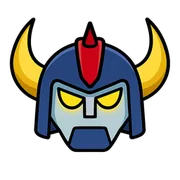
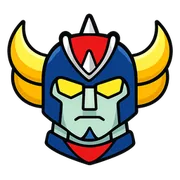
Lightly stylized Taekwon V and Grendizer; bring back tile bobbing via the game loop (no per-tile CSS animation)
Claude-Session: https://claude.ai/code/session_019QwctBLnb4UTXMJBnbargq

diff --git a/index.html b/index.html
@@ -2044,6 +2044,13 @@ function drawTiles() {
     e.style.opacity = t.alpha;
     e.style.filter = t.flash > 0 ? `brightness(${1 + t.flash * 1.5})` : '';
     e.style.zIndex = t.scale > 1.01 ? 3 : 1;
+    // 까딱까딱: 그림만 좌우로 기울며 들썩 (CSS 애니메이션 대신 여기서 같이 움직여서 아이폰 부담이 없게, 1초 박자)
+    if (e._art === undefined) e._art = e.querySelector('.ic .art');
+    if (e._art) {
+      const ph = now / 1000 + t.phase / (Math.PI * 2);
+      const a = Math.PI * 2 * ph;
+      e._art.style.transform = `translateY(${(-18 * Math.abs(Math.sin(a))).toFixed(1)}%) rotate(${(-14 * Math.cos(a)).toFixed(1)}deg)`;
+    }
   });
 }
 function renderBoard() {
@@ -2082,7 +2089,7 @@ const faceHTML = (e, who = 'suit') => FACE_ART[who][e] || FACE_ART.suit[e] || e;
 // 같은 그림이 여러 개 있어도 박자가 겹치지 않게 시작점을 흩뜨림
 // 그림을 다시 그려도 폰에 남은 옛 그림이 보이지 않게 주소에 버전을 붙임
 // 파일마다 내용이 바뀔 때만 새로 받도록 파일 해시를 붙임 (빌드할 때 채움)
-const ART_HASH = {"tile-gundam-a.png": "41a00219", "ind-school-a.png": "1b0fc977", "robot-cobot-cook-b.png": "3f739fa6", "tile-tool-a.png": "f174149f", "tile-made-a.png": "d557ba97", "ind-training-b.png": "0efc1d0b", "robot-qarm-a.png": "901f7afc", "tile-legs-b.png": "c0299b41", "tile-union-b.png": "b3a03a42", "tile-mgodz-b.png": "64821f9c", "robot-indus-b.png": "4a7cabef", "face-cook-frown.png": "e01a4907", "face-cook-neutral.png": "71441525", "ind-battery-b.png": "6e2bd18d", "ind-fire-a.png": "a71484d3", "face-trump-neutral.png": "5aecac90", "tile-legs-a.png": "2faadad6", "face-worker-angry.png": "eb6b88ed", "ind-steel-a.png": "0f070238", "face-suitf-delight.png": "d729900f", "tile-iarm-a.png": "fc127d92", "ind-steel-b.png": "e122612f", "ind-defense-b.png": "5aa959f1", "face-cook-angry.png": "50c65318", "ind-port-b.png": "6f5dc395", "tile-tf-a.png": "d2bc0939", "ind-factory-a.png": "909659fd", "tile-grendizer-b.png": "684e6275", "tile-term-b.png": "fa8e5b3f", "face-neutral.png": "a9a959b5", "tile-wheel-a.png": "9e98ebac", "face-cook-smile.png": "be9219e0", "robot-indus-a.png": "ba4c70bc", "tile-korea-b.png": "ebe1008b", "face-trump-tear.png": "21d22245", "tile-auto-b.png": "bb58686e", "ind-material-b.png": "a8f27197", "tile-korea-a.png": "d1987f19", "tile-union-a.png": "d48507d4", "ind-auto-a.png": "9a8abf4f", "tile-taekwonv-b.png": "b93a470a", "face-frown.png": "26865767", "robot-centaur-a.png": "a9e1e03b", "tile-auto-a.png": "e7100d25", "robot-cobot-cook-a.png": "2acb022c", "face-worker-tear.png": "940dcfc3", "ind-autoparts-b.png": "a5dbd76a", "face-suitf-angry.png": "5b24ceb5", "tile-iarm-b.png": "f0647318", "face-suitf-tear.png": "d0923069", "robot-centaur-b.png": "848f1932", "robot-mm-a.png": "e5da97cf", "ind-defense-a.png": "23a0651c", "robot-quad-a.png": "1e1384cf", "ind-autoparts-a.png": "26dcf7ce", "tile-eva-b.png": "b64d5546", "face-cook-tear.png": "d529800c", "tile-gundam-b.png": "69722c17", "face-trump-delight.png": "e41c1f7d", "face-angry.png": "8542c3c5", "tile-floor-b.png": "7bfb4d09", "face-suitf-smile.png": "2bfa949d", "ind-material-a.png": "2c67685e", "tile-mazinger-a.png": "2400cdc5", "tile-term-a.png": "f86a988f", "tile-eva-a.png": "48055f29", "tile-hum-a.png": "cdc85433", "ind-port-a.png": "0e5340b9", "ind-police-a.png": "717025fa", "wheel-tilt-ref.png": "4a1e31a2", "robot-cobot-a.png": "bb066d5e", "tile-mazinger-b.png": "dd429822", "face-trump-angry.png": "6fc0cf6d", "tile-wheel-b.png": "df5d2104", "indus-ref.png": "2bfe4680", "face-worker-neutral.png": "f4f1ff96", "robot-amr-a.png": "21455470", "face-delight.png": "4b63238d", "face-trump-frown.png": "4102f723", "robot-mm-b.png": "41cc89c7", "ind-fire-b.png": "c530534e", "ind-police-b.png": "750b1169", "ind-ess-b.png": "c7fac005", "ind-training-a.png": "a9fe00e5", "tile-mgodz-a.png": "36243d52", "tile-tf-b.png": "23f3efda", "ind-aircraft-a.png": "53a6b218", "ind-school-b.png": "a14af652", "tile-arm-b.png": "6cb9dab3", "tile-taekwonv-a.png": "3991a640", "face-worker-delight.png": "56fdb189", "face-worker-smile.png": "7eaefd7c", "robot-quad-b.png": "9b27fe7b", "ind-chicken-a.png": "bd4bc4e3", "face-cook-delight.png": "5ceb20b0", "ind-battery-a.png": "2ead7359", "robot-agv-b.png": "397f8942", "face-tear.png": "7cacead6", "face-suitf-neutral.png": "b29259fe", "ind-auto-b.png": "f90715bb", "ind-shipyard-a.png": "7c43481e", "tile-grendizer-a.png": "18fc9005", "tile-tool-b.png": "c8c8a23a", "ind-factory-b.png": "b9dfaab4", "ind-chicken-b.png": "b4930a6b", "ind-shipyard-b.png": "098fdbae", "robot-qarm-b.png": "abd9a737", "tile-arm-a.png": "cd420a51", "tile-made-b.png": "7077aabd", "tile-floor-a.png": "14074a30", "robot-cobot-weld-a.png": "da53987b", "robot-agv-a.png": "ee67b65c", "ind-logistics-b.png": "9c5aeeca", "face-smile.png": "786eeb95", "face-worker-frown.png": "0f8d8086", "robot-cobot-weld-b.png": "a9e69108", "robot-amr-b.png": "09f47fab", "tile-hum-b.png": "01ca7c8b", "ind-ess-a.png": "83fff111", "face-suitf-frown.png": "1236f440", "ind-aircraft-b.png": "6afa5f2a", "face-trump-smile.png": "03674df8", "robot-cobot-b.png": "7ea58bc1", "ind-logistics-a.png": "b1b04f38"};
+const ART_HASH = {"tile-gundam-a.png": "41a00219", "ind-school-a.png": "1b0fc977", "robot-cobot-cook-b.png": "3f739fa6", "tile-tool-a.png": "f174149f", "tile-made-a.png": "d557ba97", "ind-training-b.png": "0efc1d0b", "robot-qarm-a.png": "901f7afc", "tile-legs-b.png": "c0299b41", "tile-union-b.png": "b3a03a42", "tile-mgodz-b.png": "64821f9c", "robot-indus-b.png": "4a7cabef", "face-cook-frown.png": "e01a4907", "face-cook-neutral.png": "71441525", "ind-battery-b.png": "6e2bd18d", "ind-fire-a.png": "a71484d3", "face-trump-neutral.png": "5aecac90", "tile-legs-a.png": "2faadad6", "face-worker-angry.png": "eb6b88ed", "ind-steel-a.png": "0f070238", "face-suitf-delight.png": "d729900f", "tile-iarm-a.png": "fc127d92", "ind-steel-b.png": "e122612f", "ind-defense-b.png": "5aa959f1", "face-cook-angry.png": "50c65318", "ind-port-b.png": "6f5dc395", "tile-tf-a.png": "d2bc0939", "ind-factory-a.png": "909659fd", "tile-grendizer-b.png": "0151be7f", "tile-term-b.png": "fa8e5b3f", "face-neutral.png": "a9a959b5", "tile-wheel-a.png": "9e98ebac", "face-cook-smile.png": "be9219e0", "robot-indus-a.png": "ba4c70bc", "tile-korea-b.png": "ebe1008b", "face-trump-tear.png": "21d22245", "tile-auto-b.png": "bb58686e", "ind-material-b.png": "a8f27197", "tile-korea-a.png": "d1987f19", "tile-union-a.png": "d48507d4", "ind-auto-a.png": "9a8abf4f", "tile-taekwonv-b.png": "ed553564", "face-frown.png": "26865767", "robot-centaur-a.png": "a9e1e03b", "tile-auto-a.png": "e7100d25", "robot-cobot-cook-a.png": "2acb022c", "face-worker-tear.png": "940dcfc3", "ind-autoparts-b.png": "a5dbd76a", "face-suitf-angry.png": "5b24ceb5", "tile-iarm-b.png": "f0647318", "face-suitf-tear.png": "d0923069", "robot-centaur-b.png": "848f1932", "robot-mm-a.png": "e5da97cf", "ind-defense-a.png": "23a0651c", "robot-quad-a.png": "1e1384cf", "ind-autoparts-a.png": "26dcf7ce", "tile-eva-b.png": "b64d5546", "face-cook-tear.png": "d529800c", "tile-gundam-b.png": "69722c17", "face-trump-delight.png": "e41c1f7d", "face-angry.png": "8542c3c5", "tile-floor-b.png": "7bfb4d09", "face-suitf-smile.png": "2bfa949d", "ind-material-a.png": "2c67685e", "tile-mazinger-a.png": "2400cdc5", "tile-term-a.png": "f86a988f", "tile-eva-a.png": "48055f29", "tile-hum-a.png": "cdc85433", "ind-port-a.png": "0e5340b9", "ind-police-a.png": "717025fa", "wheel-tilt-ref.png": "4a1e31a2", "robot-cobot-a.png": "bb066d5e", "tile-mazinger-b.png": "dd429822", "face-trump-angry.png": "6fc0cf6d", "tile-wheel-b.png": "df5d2104", "indus-ref.png": "2bfe4680", "face-worker-neutral.png": "f4f1ff96", "robot-amr-a.png": "21455470", "face-delight.png": "4b63238d", "face-trump-frown.png": "4102f723", "robot-mm-b.png": "41cc89c7", "ind-fire-b.png": "c530534e", "ind-police-b.png": "750b1169", "ind-ess-b.png": "c7fac005", "ind-training-a.png": "a9fe00e5", "tile-mgodz-a.png": "36243d52", "tile-tf-b.png": "23f3efda", "ind-aircraft-a.png": "53a6b218", "ind-school-b.png": "a14af652", "tile-arm-b.png": "6cb9dab3", "tile-taekwonv-a.png": "0dd6aeb3", "face-worker-delight.png": "56fdb189", "face-worker-smile.png": "7eaefd7c", "robot-quad-b.png": "9b27fe7b", "ind-chicken-a.png": "bd4bc4e3", "face-cook-delight.png": "5ceb20b0", "ind-battery-a.png": "2ead7359", "robot-agv-b.png": "397f8942", "face-tear.png": "7cacead6", "face-suitf-neutral.png": "b29259fe", "ind-auto-b.png": "f90715bb", "ind-shipyard-a.png": "7c43481e", "tile-grendizer-a.png": "bf158543", "tile-tool-b.png": "c8c8a23a", "ind-factory-b.png": "b9dfaab4", "ind-chicken-b.png": "b4930a6b", "ind-shipyard-b.png": "098fdbae", "robot-qarm-b.png": "abd9a737", "tile-arm-a.png": "cd420a51", "tile-made-b.png": "7077aabd", "tile-floor-a.png": "14074a30", "robot-cobot-weld-a.png": "da53987b", "robot-agv-a.png": "ee67b65c", "ind-logistics-b.png": "9c5aeeca", "face-smile.png": "786eeb95", "face-worker-frown.png": "0f8d8086", "robot-cobot-weld-b.png": "a9e69108", "robot-amr-b.png": "09f47fab", "tile-hum-b.png": "01ca7c8b", "ind-ess-a.png": "83fff111", "face-suitf-frown.png": "1236f440", "ind-aircraft-b.png": "6afa5f2a", "face-trump-smile.png": "03674df8", "robot-cobot-b.png": "7ea58bc1", "ind-logistics-a.png": "b1b04f38"};
 // 게임에서는 가벼운 webp(assets/w/)를 씀. 파일 이름은 png와 같고 확장자만 다름
 const av = f => { const n = f.replace('assets/', ''); return `assets/w/${n.replace(/\.png$/, '.webp')}?v=${ART_HASH[n] || '0'}`; };
 // 업종 아이콘(ind-)은 a프레임만, 로봇·부품은 a·b를 번갈아 (팔이 까딱, 다리가 제자리걸음 등)
@@ -2459,7 +2466,7 @@ function banner(text, delay) {
 }
 
 // ───────── 진행 ─────────
-const BUILD_V = '1003-214603';
+const BUILD_V = '1003-214843';
 function loop(t) {
   const dt = Math.min(0.1, (t - (S.last || t)) / 1000);
   S.last = t;
